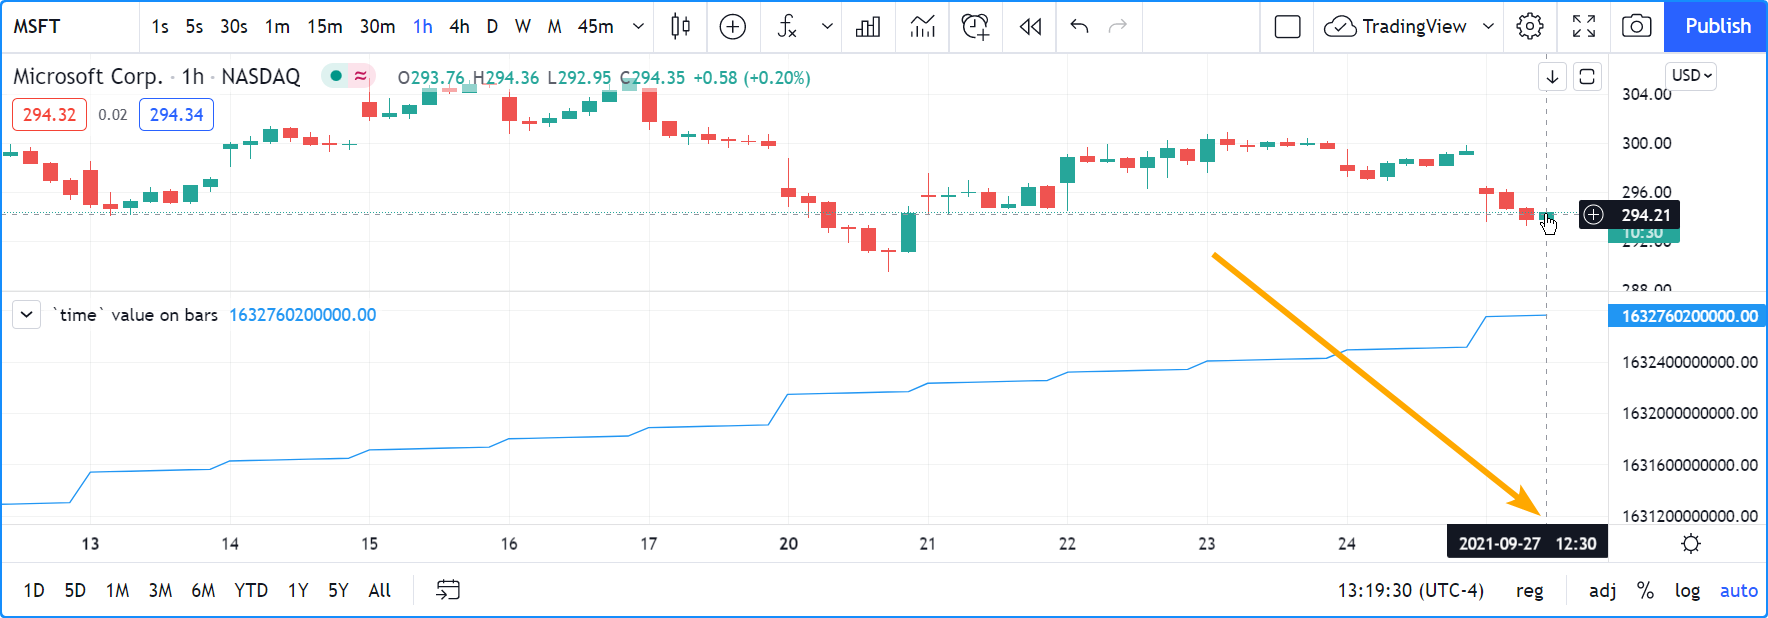
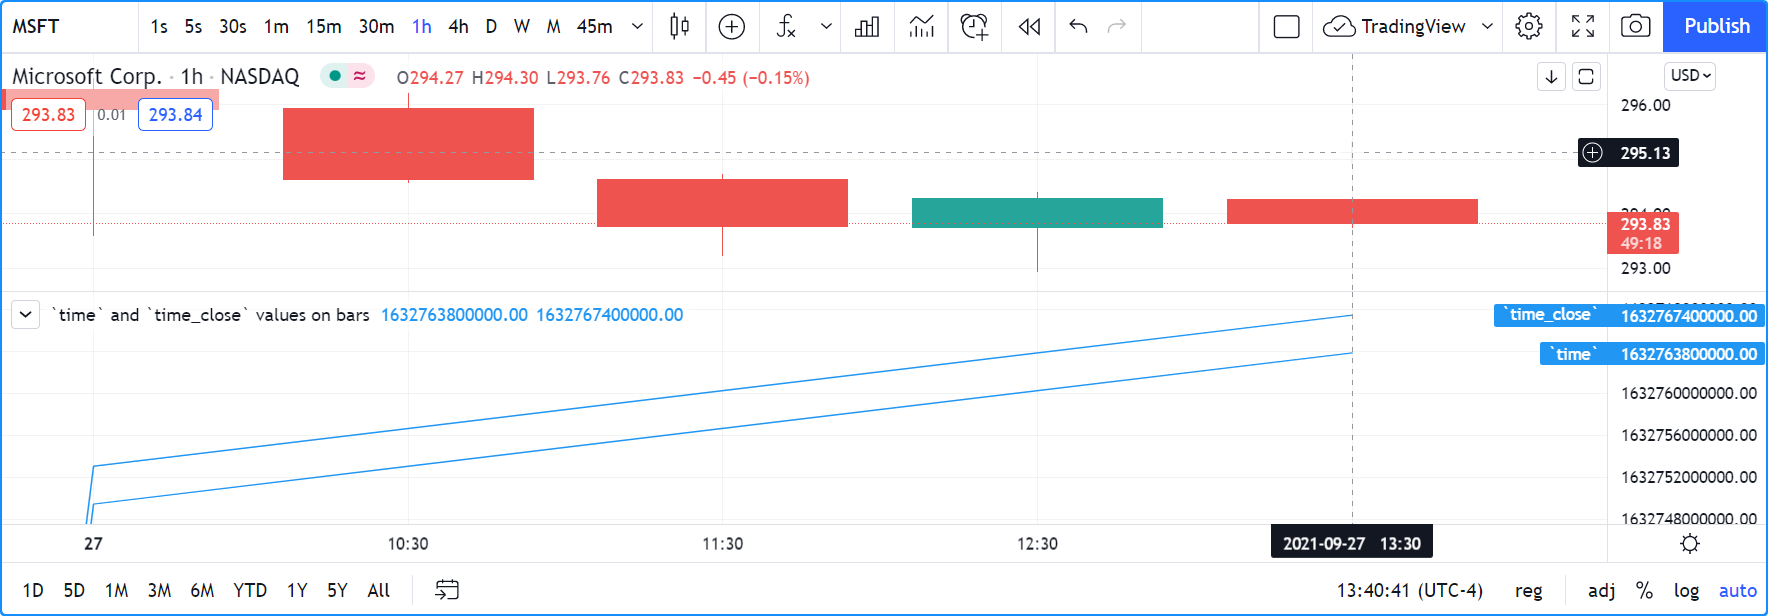
a

diff --git a/source/concepts/Time.rst b/source/concepts/Time.rst
@@ -166,28 +166,32 @@ Time variables
 \`time\` and \`time_close\`
 ^^^^^^^^^^^^^^^^^^^^^^^^^^^
 
-Let's start by plotting `time <https://www.tradingview.com/pine-script-reference/v5/#var_time>`__,
-which is the bar's opening time in milliseconds::
+Let's start by plotting `time <https://www.tradingview.com/pine-script-reference/v5/#var_time>`__ and
+`time_close <https://www.tradingview.com/pine-script-reference/v5/#var_time_close>`__,
+the Unix timestamp in milliseconds of the bar's opening and closing time::
 
     //@version=5
-    indicator("`time` value on bars")
-    plot(time)
+    indicator("`time` and `time_close` values on bars")
+    plot(time, "`time`")
+    plot(time_close, "`time_close`")
 
 .. image:: images/Time-TimeAndTimeclose-01.png
 
 Note that:
 
-- The `time <https://www.tradingview.com/pine-script-reference/v5/#var_time>`__
-  variable returns the timestamp of each bar's opening time in `UNIX
-  time <https://en.wikipedia.org/wiki/Unix_time>`__ [#millis]_. It is independent of the timezone selected by the user on his chart.
+- The `time <https://www.tradingview.com/pine-script-reference/v5/#var_time>`__ and
+  `time_close <https://www.tradingview.com/pine-script-reference/v5/#var_time_close>`__ variables
+  returns a timestamp in `UNIX time <https://en.wikipedia.org/wiki/Unix_time>`__, which is independent of the timezone selected by the user on his chart.
   In this case, the **chart's** time zone setting is the exchange time zone, so whatever symbol is on the chart, 
   its exchange time zone will be used for the display of the date and time values on the chart's cursor.
   The NASDAQ's time zone is UTC-4, but this only affects the chart's display of date/time values; it has no impact on the
   value of `time <https://www.tradingview.com/pine-script-reference/v5/#var_time>`__ plotted by the script.
 - The last value for the plot shown in the scale is the number of milliseconds that have passed since 00:00:00 UTC, 1 January, 1970.
-  It corresponds to 16:30 on the 27th of September 2021. Because the chart is using the UTC-4 time zone (the NASDAQ's time zone), however,
-  it is displaying the 12:30 time (where the arrow is pointing), four hours earlier than UTC time.
-  corresponds to Tuesday, 15th of April, 2014 at 20:30:00 UTC.
+  It corresponds to 17:30 on the 27th of September 2021. Because the chart is using the UTC-4 time zone (the NASDAQ's time zone), however,
+  it is displaying the 13:30 time (where the arrow is pointing), four hours earlier than UTC time.
+- The difference between the two values on the last bar is the number of milliseconds in one hour (1000 * 60 * 60 = 3,600,000)
+  because we are on a 1H chart.
+
 
 
 \`time_tradingday\`
